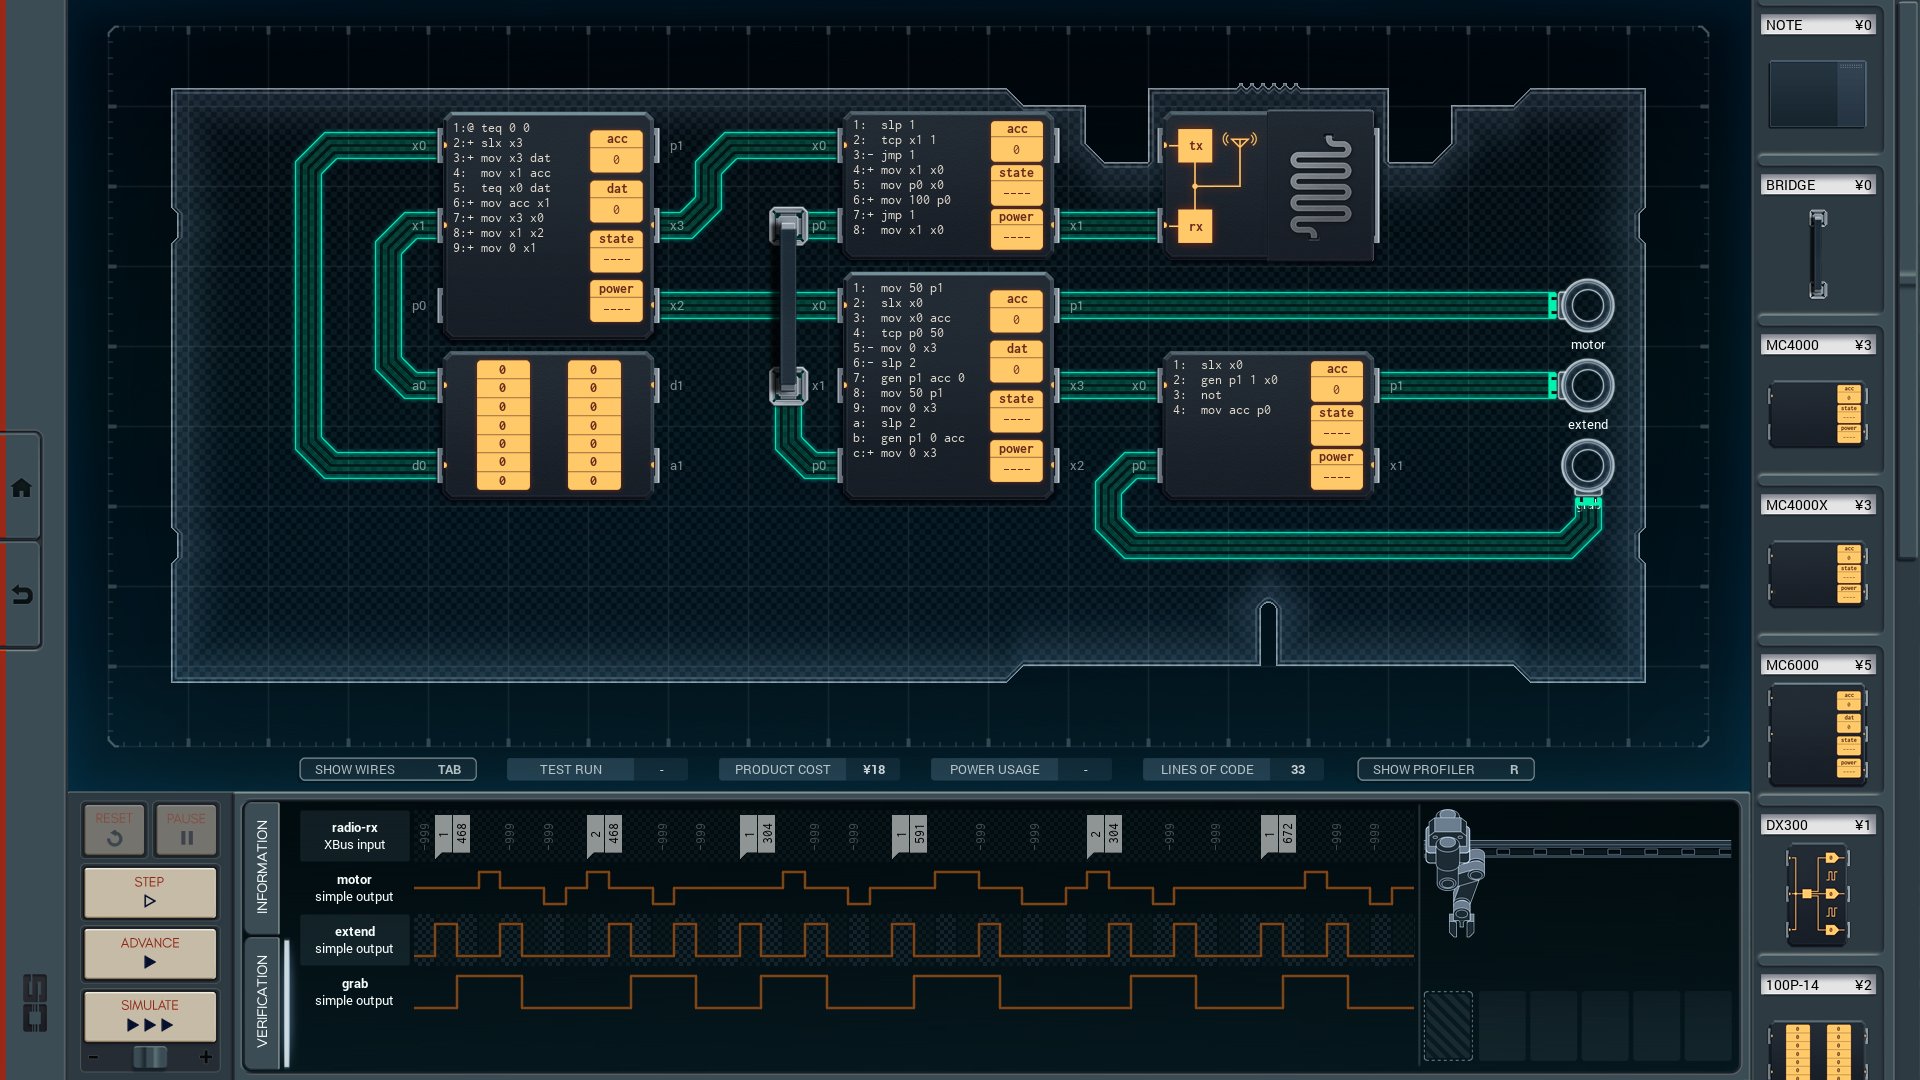
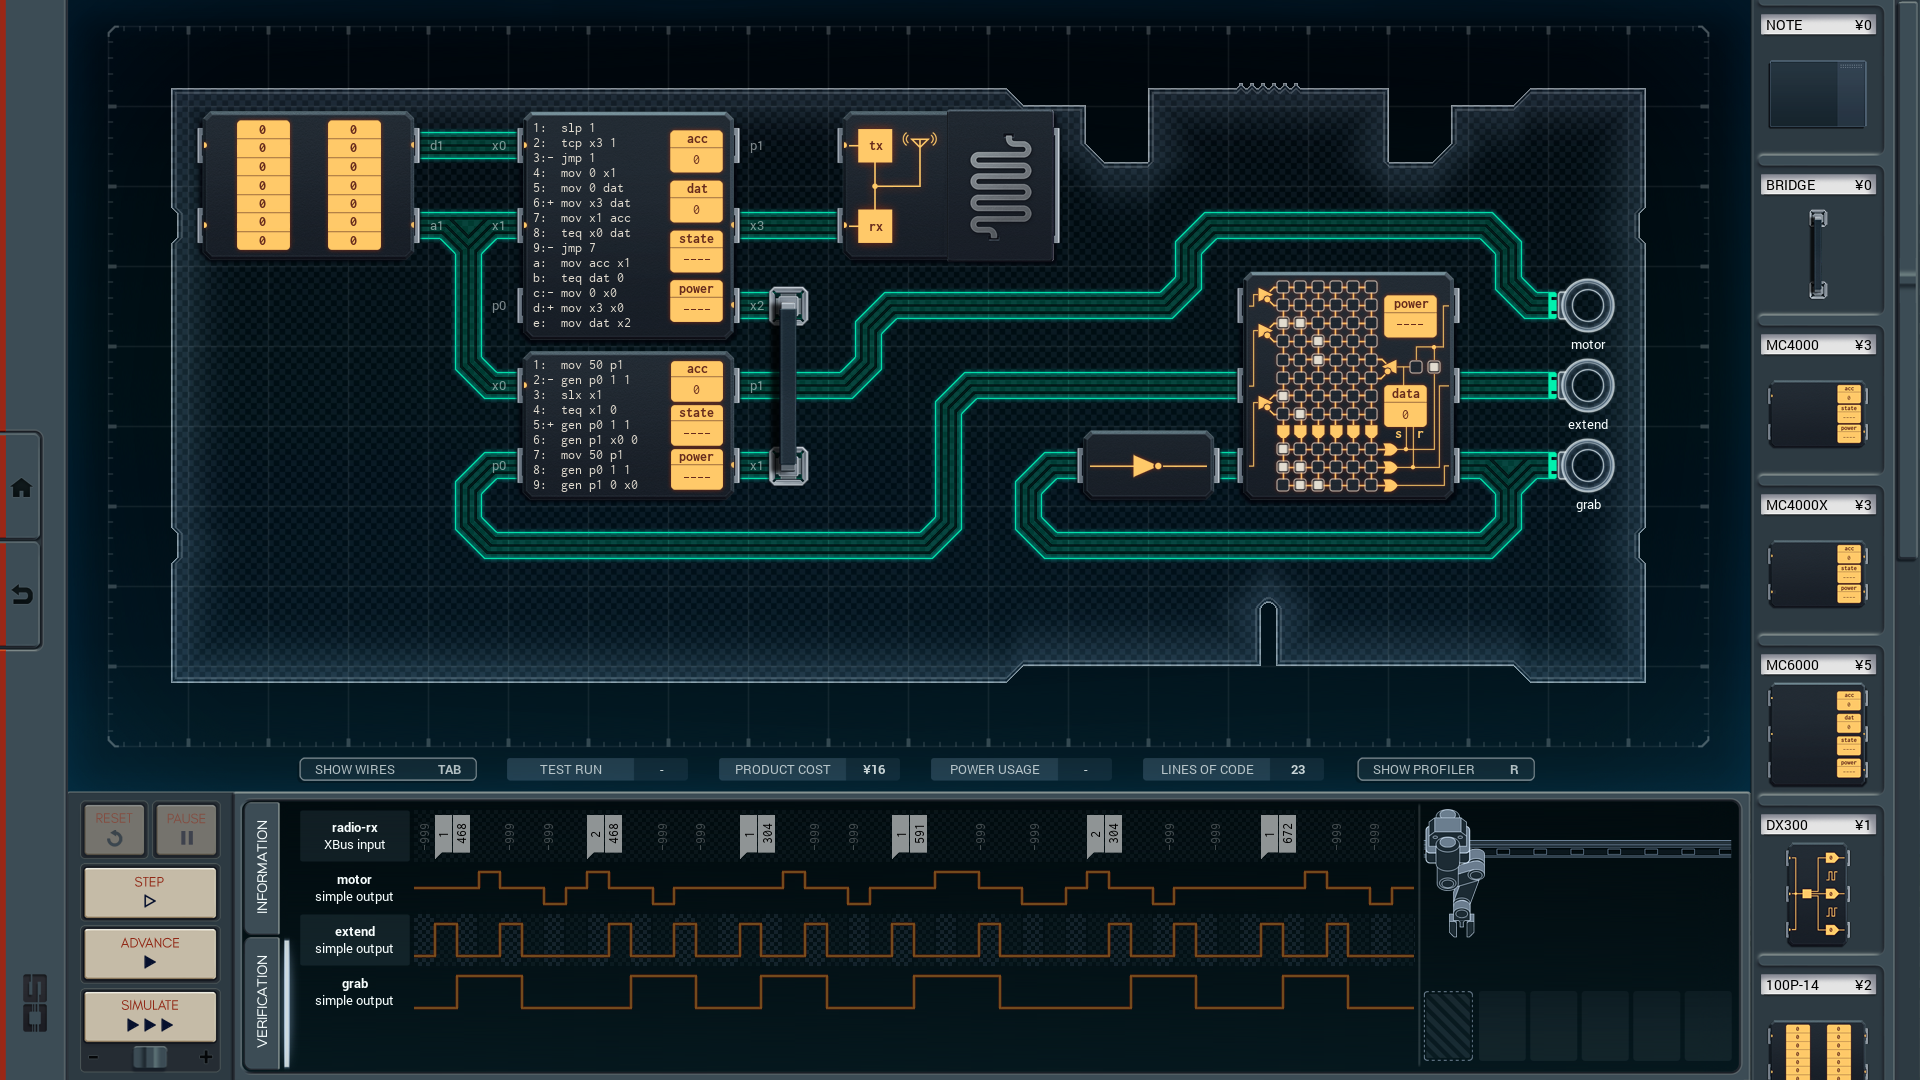
2022/10/03 Optimized the Cold Storage Robot solutions
=== MIN LINES SOLUTION ===
[BEF] 18C / 385P / 33L
[AFT] 16C / 452P / 23L

=== MIN POWER SOLUTION ===
[BEF] 18C / 343P / 39L
[AFT] 15C / 324P / 35L

Changed region(s): [[0.0938, 0.0917, 0.8438, 0.5194]]

diff --git a/032-cold-storage-robot/README.md b/032-cold-storage-robot/README.md
@@ -1,9 +1,9 @@
-18/385/33 (MIN LINES) SOLUTION
+16/452/23 (MIN LINES) SOLUTION
 ------------------------------
 
 ![screenshot0](https://github.com/shiawasenahikari/Shenzhen-IO-Solutions/blob/master/032-cold-storage-robot/screenshot0.png)
 
-18/343/39 (MIN POWER) SOLUTION
-------------------------------
+15/324/35 (MIN COST & POWER) SOLUTION
+-------------------------------------
 
 ![screenshot1](https://github.com/shiawasenahikari/Shenzhen-IO-Solutions/blob/master/032-cold-storage-robot/screenshot1.png)
